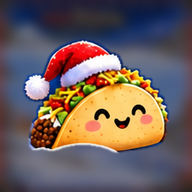
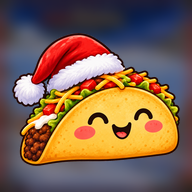
Taco's Christmas: hummingbird's new taco on Discord posts and notifications, and a theme check that Discord pictures are made for Discord (at least 256x256, real transparency, not the board cutout)

diff --git a/tests/themes.test.js b/tests/themes.test.js
@@ -13,6 +13,9 @@ const file = (u) => fs.existsSync(path.join(root, 'docs', String(u).split('?')[0
 
 // Themes that still show the Beat Saber Games logo on their Discord posts. Give them a thumb before a game uses them.
 const NO_PICTURE_YET = ['christmas', 'thanksgiving'];
+// Taco themes whose Discord picture is still the hero cut out of the board art (artHero): small, clipped by the
+// scenery and fringed with the background, so it looks rough on Discord. Give them a proper thumb before a game uses them.
+const CUTOUT_PICTURE_YET = ['taco-halloween', 'taco-thanksgiving', 'taco-newyear', 'taco-valentine', 'taco-easter', 'taco-summer'];
 
 const looksBlock = render.slice(render.indexOf('var LOOKS = {'));
 const boardKinds = new Set(Object.values(C.boards['chester-escape']().spaces).map((s) => s.kind).filter(Boolean));
@@ -83,6 +86,36 @@ function imgSize(u) {
   }
   return { type: '?' };
 }
+// A PNG whose corners are opaque light-grey and white squares: a 'transparent' picture with the checkerboard
+// saved into it. Reads 8-bit, non-interlaced RGB or RGBA PNGs; anything else is left alone. Returns a reason or ''.
+function fakeTransparency(u) {
+  const f = path.join(root, 'docs', String(u).split('?')[0]);
+  if (!fs.existsSync(f)) return '';
+  const b = fs.readFileSync(f);
+  if (b.slice(1, 4).toString() !== 'PNG') return '';
+  const w = b.readUInt32BE(16), h = b.readUInt32BE(20), depth = b[24], ct = b[25], inter = b[28];
+  if (depth !== 8 || (ct !== 2 && ct !== 6) || inter) return '';
+  const chunks = []; for (let i = 8; i < b.length;) { const n = b.readUInt32BE(i), ty = b.slice(i + 4, i + 8).toString(); if (ty === 'IDAT') chunks.push(b.slice(i + 8, i + 8 + n)); i += 12 + n; }
+  const raw = require('zlib').inflateSync(Buffer.concat(chunks)), bpp = ct === 6 ? 4 : 3, stride = w * bpp, px = Buffer.alloc(h * stride);
+  for (let y = 0; y < h; y++) {
+    const ft = raw[y * (stride + 1)], src = raw.subarray(y * (stride + 1) + 1, (y + 1) * (stride + 1)), row = px.subarray(y * stride, (y + 1) * stride), up = y ? px.subarray((y - 1) * stride, y * stride) : null;
+    for (let x = 0; x < stride; x++) {
+      const a = x >= bpp ? row[x - bpp] : 0, c = up ? up[x] : 0, d = up && x >= bpp ? up[x - bpp] : 0;
+      let v = src[x];
+      if (ft === 1) v += a; else if (ft === 2) v += c; else if (ft === 3) v += (a + c) >> 1;
+      else if (ft === 4) { const p = a + c - d, pa = Math.abs(p - a), pb = Math.abs(p - c), pc = Math.abs(p - d); v += pa <= pb && pa <= pc ? a : pb <= pc ? c : d; }
+      row[x] = v & 255;
+    }
+  }
+  const at = (x, y) => { const o = y * stride + x * bpp; return [px[o], px[o + 1], px[o + 2], bpp === 4 ? px[o + 3] : 255]; };
+  const n = Math.min(24, w, h), shades = new Set();
+  for (const [cx, cy] of [[0, 0], [w - n, 0], [0, h - n], [w - n, h - n]]) for (let y = cy; y < cy + n; y++) for (let x = cx; x < cx + n; x++) {
+    const [r, g, bl, al] = at(x, y);
+    if (al < 250 || Math.max(r, g, bl) - Math.min(r, g, bl) > 6 || Math.min(r, g, bl) < 200) return '';
+    shades.add(Math.round(Math.min(r, g, bl) / 6));
+  }
+  return shades.size >= 2 ? 'opaque grey and white squares in the corners' : '';
+}
 // Every piece of text in a theme (and its cards), with where it sits. Picture paths and colors are skipped.
 function texts(o, at, out) {
   if (typeof o === 'string') { if (!/^(img\/|#[0-9a-f]{3,8}$|M[\d.])/i.test(o)) out.push([at, o]); }
@@ -144,6 +177,14 @@ for (const [id, t] of Object.entries(C.themes)) {
     const z = imgSize(u);
     if (z) need(z.w && z.w === z.h, id, k + ' ' + u + ' should be square (it is ' + z.w + 'x' + z.h + ')');
   }
+  // The Discord picture has to be made for Discord: a thumb of at least 256x256, with real transparency if it's a
+  // cutout (a checkerboard saved into the pixels shows up as a grey box on Discord).
+  if (t.thumb) {
+    const z = imgSize(t.thumb);
+    if (z && z.w) need(z.w >= 256, id, 'thumb ' + t.thumb + ' is ' + z.w + 'px; Discord pictures need at least 256x256');
+    const fake = fakeTransparency(t.thumb);
+    need(!fake, id, 'thumb ' + t.thumb + ' has a checkerboard saved into its pixels (' + fake + '); cut it out to real transparency');
+  } else if (t.artHero && t.artHero.src) need(CUTOUT_PICTURE_YET.includes(id), id, 'Discord picture is the board cutout (artHero); add a thumb made for Discord, at least 256x256');
   const pics = [t.thumb, t.shot, t.art, t.artHero && t.artHero.src].concat((t.deck || []).map((c) => c.full)).filter(Boolean);
   for (const u of pics) need(/\?v=\w+/.test(u), id, u + ' needs a ?v= stamp, so a new picture isn\'t hidden behind the old one in caches');
   // The picker and Discord tell themes apart by name and title.
@@ -155,6 +196,7 @@ for (const id of NO_PICTURE_YET) {
   const t = C.themes[id] || {};
   need(C.themes[id] && !t.thumb && !(t.artHero && t.artHero.src), id, 'take it off NO_PICTURE_YET in this test: it has a Discord picture now (or is gone)');
 }
+for (const id of CUTOUT_PICTURE_YET) need(C.themes[id] && !C.themes[id].thumb, id, 'take it off CUTOUT_PICTURE_YET in this test: it has a thumb now (or is gone)');
 // A notification icon with no theme is left over from a renamed or removed theme.
 for (const f of fs.readdirSync(path.join(root, 'docs/img/push'))) if (/\.png$/.test(f)) need(C.themes[f.replace(/\.png$/, '')], f, 'notification icon with no theme of that id');
 assert.deepStrictEqual(problems, [], 'Theme problems (see THEMES.md and the playbook):\n  ' + problems.join('\n  '));

diff --git a/docs/js/content.js b/docs/js/content.js
@@ -315,6 +315,7 @@
       art: "img/themes/taco-christmas.jpg?v=20261020",   // Hummingbird's board art, title included
       mapSet: 'taco-christmas',   // Taco's Christmas playlist, 50 maps
       shot: "img/boards/taco-christmas.jpg?v=20261126a",   // the board with its maps, for the day-before Discord post
+      thumb: "img/themes/taco-christmas-thumb.png?v=20261127a",   // hummingbird's clean taco for Discord posts (the board cutout looked rough there)
       artHero: {"src": "img/themes/taco-christmas-taco.png?v=20261020", "x": 74.96, "y": 66.99, "w": 146.73, "h": 114.04, "move": "hill", "clip": "M47.0,35.1 L248.0,35.1 L248.0,190.0 L244.8,189.0 L241.6,187.9 L238.4,187.0 L235.2,186.0 L232.1,185.1 L228.9,184.2 L225.7,183.4 L222.5,182.5 L219.3,181.7 L216.1,181.0 L212.9,180.2 L209.7,179.5 L206.5,178.8 L203.3,178.2 L200.2,177.6 L197.0,177.0 L193.8,176.5 L190.6,175.9 L187.4,175.4 L184.2,175.0 L181.0,174.5 L177.8,174.1 L174.6,173.8 L171.5,173.4 L168.3,173.1 L165.1,172.8 L161.9,172.6 L158.7,172.4 L155.5,172.2 L152.3,172.0 L149.1,171.9 L145.9,171.8 L142.7,171.7 L139.6,171.7 L136.4,171.7 L133.2,171.7 L130.0,171.8 L126.8,171.9 L123.6,172.0 L120.4,172.1 L117.2,172.3 L114.0,172.5 L110.8,172.7 L107.7,173.0 L104.5,173.3 L101.3,173.6 L98.1,174.0 L94.9,174.4 L91.7,174.8 L88.5,175.2 L85.3,175.7 L82.1,176.2 L78.9,176.8 L75.8,177.3 L72.6,177.9 L69.4,178.6 L66.2,179.2 L63.0,179.9 L59.8,180.7 L56.6,181.4 L53.4,182.2 L50.2,183.0 L47.0,183.9 Z"},
       banner: ["#d7263d", "#fff"],
       palette: {"ground": "#e9f1f7", "ground2": "#c9dbe8", "stone": "#ffffff", "stoneDark": "#9db4c6", "ink": "#24384a", "accent": "#d7263d", "good": "#2fb35a", "bad": "#3a6ea5", "water": "#a9d6f0"},

diff --git a/docs/index.html b/docs/index.html
@@ -106,7 +106,7 @@
   <div class="foot-more" id="footTools"><span class="fm-label">More Beat Saber tools:</span> <a href="https://spanky3651.github.io/Playlist-Studio/?utm_source=chesters-escape&amp;utm_medium=footer&amp;utm_campaign=site" data-tool="playlist-studio">Playlist Studio</a> <span class="sep">&middot;</span> <a href="https://spanky3651.github.io/HSV-Config-Generator/?utm_source=chesters-escape&amp;utm_medium=footer&amp;utm_campaign=site" data-tool="hsv-config-generator">HSV <span class="fm-long">Config </span>Generator</a> <span class="sep">&middot;</span> <a href="https://spanky3651.github.io/ReeSaber-Studio/?utm_source=chesters-escape&amp;utm_medium=footer&amp;utm_campaign=site" data-tool="reesaber-studio">ReeSaber Studio</a></div>
   <div class="foot-meta">
     <div class="foot-count" id="footCount" hidden></div>
-    <span class="foot-updated" id="footUpdated" data-updated="2026-11-27T12:19Z">Site updated recently</span>
+    <span class="foot-updated" id="footUpdated" data-updated="2026-11-27T16:24Z">Site updated recently</span>
   </div>
 </footer>
 
@@ -166,7 +166,7 @@
 
 <script>setTimeout(function () { document.body.classList.remove('booting'); }, 15000);   // never stay blank if the game fails to load</script>
 <script src="js/config.js?v=20261123b"></script>
-<script src="js/content.js?v=20261127a"></script>
+<script src="js/content.js?v=20261127e"></script>
 <script src="js/engine.js?v=20261127a"></script>
 <script src="js/render.js?v=20261127a"></script>
 <script src="js/dice.js?v=20261123b"></script>

diff --git a/docs/designer.html b/docs/designer.html
@@ -113,7 +113,7 @@
 <div class="toast" id="toast" role="status" aria-live="polite"></div>
 
 <script src="js/config.js?v=20261123b"></script>
-<script src="js/content.js?v=20261127a"></script>
+<script src="js/content.js?v=20261127e"></script>
 <script src="js/engine.js?v=20261127a"></script>
 <script src="js/render.js?v=20261127a"></script>
 <script src="js/services.js?v=20261123b"></script>
